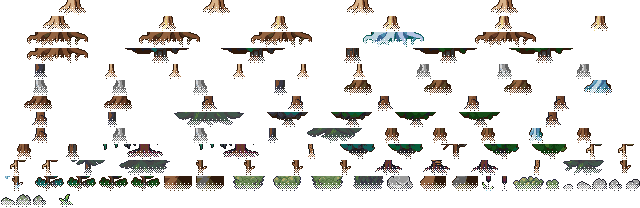
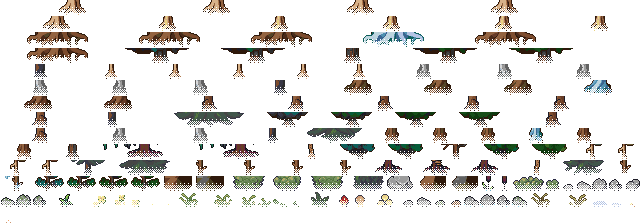
Overworld: ground details (flowers, tufts, pebbles, ice, shells)
- 29 DECAL_* sprites join the prop atlas: LightBorne flowers, tufts,
  forest patches, twigs, fern, mushrooms, pebbles and river stones, plus
  generated dead grass (tufts recoloured to straw), ice patches and shells.
- OverworldRenderer::decalFor picks one per tile from a per-biome pool by
  hash (4-14% of tiles, 1.5% of lake/river cells); drawDecals draws them
  flat after the terrain layers, never under a prop or across a biome edge.
- CLAUDE.md: the overworld notes cover swamps, smooth fields, banks, shade
  overlays, decals, root fade and minimap teleport; palette is 74.

diff --git a/src/render/overworld_renderer.cpp b/src/render/overworld_renderer.cpp
@@ -157,6 +157,61 @@ std::span<const Pick> poolFor(PropType type, Biome b) {
   }
 }
 
+// Ground details: flat, walk-over, picked per tile from a hash like the
+// species, and drawn with the terrain. (chance per tile, pool)
+constexpr Pick kGrassDecals[] = {{DECAL_FLOWERS_A, 2}, {DECAL_FLOWERS_B, 2}, {DECAL_FLOWER, 3},
+                                 {DECAL_STARS_A, 2},   {DECAL_STARS_B, 2},   {DECAL_TUFT_A, 3},
+                                 {DECAL_TUFT_B, 3},    {DECAL_PEBBLE_GREY, 1}};
+constexpr Pick kMeadowDecals[] = {{DECAL_TUFT_A, 3},  {DECAL_TUFT_B, 3},   {DECAL_FLOWER, 2},
+                                  {DECAL_PATCH_A, 2}, {DECAL_PATCH_B, 2}, {DECAL_STARS_A, 1}};
+constexpr Pick kForestDecals[] = {{DECAL_PATCH_A, 3},      {DECAL_PATCH_B, 3},
+                                  {DECAL_PATCH_C, 2},      {DECAL_TWIGS, 3},
+                                  {DECAL_FERN, 3},         {DECAL_MUSHROOM_RED, 1},
+                                  {DECAL_MUSHROOM_BROWN, 2}, {DECAL_MUSHROOMS, 1},
+                                  {DECAL_PEBBLE_MOSS, 1}};
+constexpr Pick kWetlandDecals[] = {{DECAL_PATCH_A, 2}, {DECAL_PATCH_C, 2}, {DECAL_FERN, 2},
+                                   {DECAL_MUSHROOM_BROWN, 1}, {DECAL_PEBBLE_MOSS, 1}};
+constexpr Pick kMountainDecals[] = {{DECAL_PEBBLE_GREY, 3}, {DECAL_PEBBLES_GREY, 3},
+                                    {DECAL_PEBBLE_BROWN, 2}, {DECAL_DEAD_TUFT_B, 1}};
+constexpr Pick kSnowDecals[] = {{DECAL_DEAD_TUFT_A, 3}, {DECAL_DEAD_TUFT_B, 3}, {DECAL_ICE_A, 2},
+                                {DECAL_ICE_B, 2},       {DECAL_PEBBLE_GREY, 1}};
+constexpr Pick kBeachDecals[] = {{DECAL_SHELL, 3}, {DECAL_SHELL_PINK, 2}, {DECAL_PEBBLE_GREY, 1}};
+constexpr Pick kFreshWaterDecals[] = {{DECAL_STONE_WATER_A, 2}, {DECAL_STONE_WATER_B, 2},
+                                      {DECAL_STONE_WATER_C, 2}, {DECAL_STONE_WATER_MOSS, 1}};
+
+struct DecalOdds {
+  float chance;
+  std::span<const Pick> pool;
+};
+
+DecalOdds decalOdds(Biome b, uint8_t shade) {
+  switch (b) {
+  case Biome::GRASSLAND: return shade ? DecalOdds{0.10f, kMeadowDecals} : DecalOdds{0.10f, kGrassDecals};
+  case Biome::FOREST: return {0.14f, kForestDecals};
+  case Biome::WETLAND: return {0.08f, kWetlandDecals};
+  case Biome::MOUNTAIN: return {0.10f, kMountainDecals};
+  case Biome::SNOW: return {0.08f, kSnowDecals};
+  case Biome::BEACH: return {0.04f, kBeachDecals};
+  case Biome::LAKE: case Biome::RIVER: return {0.015f, kFreshWaterDecals};
+  default: return {0.0f, {}};
+  }
+}
+
+owsprite::Id pickFrom(std::span<const Pick> pool, uint32_t r) {
+  int total = 0;
+  for (const Pick &p : pool)
+    total += p.weight;
+  int k = (int)(r % (uint32_t)total);
+  for (const Pick &p : pool) {
+    if (k < p.weight)
+      return p.id;
+    k -= p.weight;
+  }
+  return pool.back().id;
+}
+
+constexpr uint32_t kDecalSalt = 0x68e31da4u;
+
 constexpr float kCoverAlpha = 0.45f;
 
 constexpr int widestFrame() {
@@ -206,18 +261,15 @@ Color OverworldRenderer::biomeColour(Biome b) {
 owsprite::Id OverworldRenderer::spriteFor(PropType type, Biome biome,
                                           uint8_t variant) {
   std::span<const Pick> pool = poolFor(type, biome);
-  if (pool.empty())
+  return pool.empty() ? owsprite::COUNT : pickFrom(pool, variant);
+}
+
+owsprite::Id OverworldRenderer::decalFor(Biome biome, uint8_t shade, uint32_t hash) {
+  DecalOdds odds = decalOdds(biome, shade);
+  // Low 16 bits roll the chance, the rest pick from the pool.
+  if (odds.pool.empty() || (hash & 0xffffu) >= (uint32_t)(odds.chance * 65536.0f))
     return owsprite::COUNT;
-  int total = 0;
-  for (const Pick &p : pool)
-    total += p.weight;
-  int r = variant % total;
-  for (const Pick &p : pool) {
-    if (r < p.weight)
-      return p.id;
-    r -= p.weight;
-  }
-  return pool.back().id;
+  return pickFrom(odds.pool, hash >> 16);
 }
 
 void OverworldRenderer::renderTerrain(const Overworld &world,
@@ -251,6 +303,31 @@ void OverworldRenderer::renderTerrain(const Overworld &world,
   m_world = &world;
   for (int layer = 0; layer < LAYER_COUNT; ++layer)
     drawLayer(layer, x0, y0, w, h, frame);
+  drawDecals(x0, y0, w, h);
+}
+
+// Ground details sit flat on the terrain, so they draw here rather than in
+// the DrawQueue. Only on a tile whose row neighbours share its biome - a tuft
+// two tiles wide would otherwise hang over a shore or a biome edge - and
+// never under a prop.
+void OverworldRenderer::drawDecals(int x0, int y0, int w, int h) const {
+  const uint32_t seed = m_world->island().seed();
+  for (int j = 1; j <= h; ++j) {
+    for (int i = 1; i <= w; ++i) {
+      const Cell &c = m_cells[j * m_cellsW + i];
+      if (m_cells[j * m_cellsW + i - 1].biome != c.biome ||
+          m_cells[j * m_cellsW + i + 1].biome != c.biome)
+        continue;
+      const int x = x0 - 1 + i, y = y0 - 1 + j;
+      owsprite::Id id = decalFor(c.biome, c.shade,
+                                 noise::hash(m_world->wrapX(x), m_world->wrapY(y), seed ^ kDecalSalt));
+      if (id == owsprite::COUNT || m_world->propAt(x, y) != PropType::NONE)
+        continue;
+      const owsprite::Frame &f = owsprite::kFrames[id];
+      Rectangle src = grid::srcTile(f.col, f.row, f.w, f.h);
+      DrawTexturePro(m_props, src, grid::standingOn(src, x, y), {0, 0}, 0.0f, WHITE);
+    }
+  }
 }
 
 void OverworldRenderer::drawLayer(int layer, int x0, int y0, int w, int h,

diff --git a/tools/build_overworld_sheets.py b/tools/build_overworld_sheets.py
@@ -89,6 +89,8 @@ SOURCES = {
     "lb_rock":  (LB + "/Environment/Deco/rocks.png", None),
     "pc_rock":  (PC + "/Props/Static/Rocks.png", (0, 16, 208, 304)),  # drops the "PALETTE:" label
     "reeds":    (SW + "/objects&items/swamp water objects.png", None),
+    "lb_flora": (LB + "/Environment/Vegetation/grass, flowers & mushrooms.png", None),
+    "lb_wet":   (LB + "/Environment/Deco/deco on water.png", None),
 }
 for _m in (1, 2, 3):
     for _s in (2, 3, 4, 5):
@@ -195,8 +197,65 @@ PROPS = (
     + boxes("pc_rock", [("BOULDER_BROWN", (2, 3, 28, 43)), ("BOULDER_BROWN_LOW", (35, 3, 26, 27)),
                         ("BOULDER_GREY", (98, 3, 28, 43)), ("BOULDER_GREY_LOW", (131, 3, 26, 27))])
     + boxes("reeds", [("CATTAIL_TALL", (48, 16, 16, 32)), ("CATTAIL_SHORT", (64, 16, 16, 32)), ("SWAMP_PLANT", (80, 48, 16, 32))])
+    # Ground details (DECAL_*): flat, walk-over, drawn with the terrain.
+    + boxes("lb_flora", [("DECAL_FLOWERS_A", (65, 1, 13, 12)), ("DECAL_FLOWERS_B", (81, 1, 10, 13)),
+                         ("DECAL_FLOWER", (49, 2, 8, 8)), ("DECAL_STARS_A", (68, 17, 15, 14)),
+                         ("DECAL_STARS_B", (96, 17, 16, 14)), ("DECAL_TUFT_A", (14, 64, 20, 15)),
+                         ("DECAL_TUFT_B", (15, 49, 18, 14)), ("DECAL_PATCH_A", (48, 17, 15, 13)),
+                         ("DECAL_PATCH_B", (33, 20, 13, 10)), ("DECAL_PATCH_C", (2, 17, 14, 9)),
+                         ("DECAL_TWIGS", (96, 65, 16, 15)), ("DECAL_FERN", (127, 64, 18, 16)),
+                         ("DECAL_MUSHROOM_RED", (99, 81, 10, 13)), ("DECAL_MUSHROOM_BROWN", (99, 97, 10, 13)),
+                         ("DECAL_MUSHROOMS", (128, 113, 16, 14))])
+    + boxes("lb_rock", [("DECAL_PEBBLE_GREY", (3, 7, 10, 8)), ("DECAL_PEBBLES_GREY", (17, 4, 14, 11)),
+                        ("DECAL_PEBBLE_MOSS", (3, 23, 10, 8)), ("DECAL_PEBBLE_BROWN", (3, 39, 10, 8))])
+    + boxes("lb_wet", [("DECAL_STONE_WATER_A", (1, 35, 15, 12)), ("DECAL_STONE_WATER_B", (17, 49, 15, 14)),
+                       ("DECAL_STONE_WATER_C", (2, 66, 13, 13)), ("DECAL_STONE_WATER_MOSS", (49, 35, 15, 12))])
+    + boxes("gen", [("DECAL_DEAD_TUFT_A", (0, 0, 20, 15)), ("DECAL_DEAD_TUFT_B", (24, 0, 19, 14)),
+                    ("DECAL_ICE_A", (48, 0, 14, 7)), ("DECAL_ICE_B", (64, 0, 10, 5)),
+                    ("DECAL_SHELL", (80, 0, 6, 5)), ("DECAL_SHELL_PINK", (88, 0, 5, 4))])
 )
 ATLAS_TILES = 40  # atlas width in tiles
+
+
+def generated_decals(src):
+    """Decals no pack draws: dead grass poking through snow (LightBorne's
+    tufts, each green moved to the straw tan of the same lightness), ice
+    patches, and two beach shells."""
+    g = np.zeros((16, 96, 4), np.uint8)
+    straw = [hexrgb(h) for h in ("#544527", "#74653c", "#96894e", "#b4ac6a")]
+    straw_L = srgb_to_oklab(np.array(straw, np.uint8))[:, 0]
+    for (x0, y0, w, h), dx in (((14, 64, 20, 15), 0), ((15, 80, 19, 14), 24)):
+        tuft = src["lb_flora"][y0:y0 + h, x0:x0 + w].copy()
+        op = tuft[..., 3] > 0
+        L = srgb_to_oklab(tuft[op][:, :3])[:, 0]
+        # Spread the tuft's lightness over the four straws, darkest to lightest.
+        rank = np.clip(((L - L.min()) / max(1e-6, L.max() - L.min()) * 4).astype(int), 0, 3)
+        tuft[op, :3] = np.array(straw, np.uint8)[rank]
+        g[0:h, dx:dx + w] = tuft
+    ice, rim, glint = hexrgb("#b4c4e4"), hexrgb("#a6b7c6"), hexrgb("#dfe3ed")
+    for x0, w, h in ((48, 14, 7), (64, 10, 5)):
+        yy, xx = np.mgrid[0:h, 0:w]
+        inside = ((xx - (w - 1) / 2) / (w / 2)) ** 2 + ((yy - (h - 1) / 2) / (h / 2)) ** 2 <= 1.0
+        patch = np.zeros((h, w, 4), np.uint8)
+        patch[inside] = (*ice, 255)
+        patch[inside & (yy == h - 1)] = (*rim, 255)
+        patch[1, w // 3:w // 3 + 3] = (*glint, 255)
+        g[0:h, x0:x0 + w] = patch
+    shell, shade, pink = hexrgb("#f6e998"), hexrgb("#cc9770"), hexrgb("#f4a568")
+    sh = np.zeros((5, 6, 4), np.uint8)
+    for y, row in enumerate(("..##..", ".#..#.", "######", "#.##.#", ".####.")):
+        for x, c in enumerate(row):
+            if c == "#":
+                sh[y, x] = (*(shade if y >= 3 and x in (0, 5) else shell), 255)
+    sh[1, 2:4] = (*shade, 255)
+    g[0:5, 80:86] = sh
+    pk = np.zeros((4, 5, 4), np.uint8)
+    for y, row in enumerate((".###.", "#####", "#.#.#", ".###.")):
+        for x, c in enumerate(row):
+            if c == "#":
+                pk[y, x] = (*(pink if y < 2 else shade), 255)
+    g[0:4, 88:93] = pk
+    return g
 
 
 def match(a, rgb):
@@ -574,6 +633,7 @@ def main():
     a = ap.parse_args()
     pal = load_palette(a.palette)
     src = load_sources(a.packs, pal)
+    src["gen"] = generated_decals(src)
     if a.dump:
         os.makedirs(a.dump, exist_ok=True)
         for name, px in src.items():

diff --git a/src/render/overworld_sprites.hpp b/src/render/overworld_sprites.hpp
@@ -131,6 +131,35 @@ enum Id : int {
   CATTAIL_TALL,
   CATTAIL_SHORT,
   SWAMP_PLANT,
+  DECAL_FLOWERS_A,
+  DECAL_FLOWERS_B,
+  DECAL_FLOWER,
+  DECAL_STARS_A,
+  DECAL_STARS_B,
+  DECAL_TUFT_A,
+  DECAL_TUFT_B,
+  DECAL_PATCH_A,
+  DECAL_PATCH_B,
+  DECAL_PATCH_C,
+  DECAL_TWIGS,
+  DECAL_FERN,
+  DECAL_MUSHROOM_RED,
+  DECAL_MUSHROOM_BROWN,
+  DECAL_MUSHROOMS,
+  DECAL_PEBBLE_GREY,
+  DECAL_PEBBLES_GREY,
+  DECAL_PEBBLE_MOSS,
+  DECAL_PEBBLE_BROWN,
+  DECAL_STONE_WATER_A,
+  DECAL_STONE_WATER_B,
+  DECAL_STONE_WATER_C,
+  DECAL_STONE_WATER_MOSS,
+  DECAL_DEAD_TUFT_A,
+  DECAL_DEAD_TUFT_B,
+  DECAL_ICE_A,
+  DECAL_ICE_B,
+  DECAL_SHELL,
+  DECAL_SHELL_PINK,
   COUNT
 };
 
@@ -255,6 +284,35 @@ inline constexpr Frame kFrames[COUNT] = {
     {30, 101, 1, 2, 11}, // CATTAIL_TALL
     {31, 101, 1, 2, 11}, // CATTAIL_SHORT
     {3, 104, 2, 1, 12}, // SWAMP_PLANT
+    {5, 104, 2, 1, 12}, // DECAL_FLOWERS_A
+    {7, 104, 1, 1, 12}, // DECAL_FLOWERS_B
+    {8, 104, 1, 1, 12}, // DECAL_FLOWER
+    {9, 104, 1, 1, 12}, // DECAL_STARS_A
+    {10, 104, 1, 1, 12}, // DECAL_STARS_B
+    {11, 104, 2, 1, 12}, // DECAL_TUFT_A
+    {13, 104, 2, 1, 12}, // DECAL_TUFT_B
+    {15, 104, 1, 1, 12}, // DECAL_PATCH_A
+    {16, 104, 1, 1, 12}, // DECAL_PATCH_B
+    {17, 104, 1, 1, 12}, // DECAL_PATCH_C
+    {18, 104, 1, 1, 12}, // DECAL_TWIGS
+    {19, 104, 2, 1, 12}, // DECAL_FERN
+    {21, 104, 1, 1, 12}, // DECAL_MUSHROOM_RED
+    {22, 104, 1, 1, 12}, // DECAL_MUSHROOM_BROWN
+    {23, 104, 2, 1, 12}, // DECAL_MUSHROOMS
+    {25, 104, 1, 1, 12}, // DECAL_PEBBLE_GREY
+    {26, 104, 1, 1, 12}, // DECAL_PEBBLES_GREY
+    {27, 104, 1, 1, 12}, // DECAL_PEBBLE_MOSS
+    {28, 104, 1, 1, 12}, // DECAL_PEBBLE_BROWN
+    {29, 104, 1, 1, 12}, // DECAL_STONE_WATER_A
+    {30, 104, 1, 1, 12}, // DECAL_STONE_WATER_B
+    {31, 104, 1, 1, 12}, // DECAL_STONE_WATER_C
+    {32, 104, 1, 1, 12}, // DECAL_STONE_WATER_MOSS
+    {33, 104, 2, 1, 12}, // DECAL_DEAD_TUFT_A
+    {35, 104, 2, 1, 12}, // DECAL_DEAD_TUFT_B
+    {37, 104, 1, 1, 12}, // DECAL_ICE_A
+    {38, 104, 1, 1, 12}, // DECAL_ICE_B
+    {39, 104, 1, 1, 12}, // DECAL_SHELL
+    {0, 105, 1, 1, 13}, // DECAL_SHELL_PINK
 };
 
 } // namespace owsprite

diff --git a/src/render/overworld_renderer.hpp b/src/render/overworld_renderer.hpp
@@ -34,6 +34,9 @@
 // corners. Inland layers use generated sets with all 16 (see
 // tools/build_overworld_sheets.py).
 //
+// GROUND DETAILS (flowers, tufts, pebbles, ice) are render-only: a tile's
+// hash picks one from a per-biome pool, drawn flat with the terrain.
+//
 // PROPS: the world says what grows on a tile (TREE, PINE, ...) and a hash
 // byte; this renderer decides which picture. A per-(kind, biome) weighted
 // pool turns the byte into a sprite, so a TREE is a willow in the wetland and
@@ -63,6 +66,9 @@ public:
 
   // The sprite a prop draws as. Pure: same prop, same sprite.
   static owsprite::Id spriteFor(PropType type, Biome biome, uint8_t variant);
+  // The ground detail (a DECAL_* sprite) on a tile with this biome, shade
+  // and hash, or COUNT for none. Pure, like spriteFor.
+  static owsprite::Id decalFor(Biome biome, uint8_t shade, uint32_t hash);
 
   // Props are rooted on their base tile and grow up, so a tall tree rooted
   // below the screen can still reach into view: collect() scans this many
@@ -88,6 +94,7 @@ public:
 
 private:
   void drawLayer(int layer, int x0, int y0, int w, int h, int frame) const;
+  void drawDecals(int x0, int y0, int w, int h) const;
 
   Texture2D m_water{}, m_coast{}, m_terrain{}, m_shades{}, m_props{}, m_propsWet{};
   const Overworld *m_world = nullptr;

diff --git a/tests/test_overworld.cpp b/tests/test_overworld.cpp
@@ -404,6 +404,25 @@ TEST(OverworldRendererTest, FullOrangeAutumnTreesAreHeldBack) {
       }
 }
 
+TEST(OverworldRendererTest, GroundDetailsAreFlatDecalsAtAModestDensity) {
+  for (int b = 0; b < (int)Biome::COUNT; ++b) {
+    for (uint8_t shade = 0; shade < 4; ++shade) {
+      int shown = 0;
+      for (uint32_t h = 0; h < 4000; ++h) {
+        owsprite::Id id = OverworldRenderer::decalFor((Biome)b, shade, noise::hash(h, b, 9));
+        if (id == owsprite::COUNT)
+          continue;
+        ++shown;
+        // Flat: one tile tall, so drawing under the props is never wrong.
+        EXPECT_EQ(owsprite::kFrames[id].h, 1);
+        EXPECT_GE(id, owsprite::DECAL_FLOWERS_A); // decals only, no props
+      }
+      EXPECT_LT(shown, 4000 / 5) << biomeId((Biome)b); // at most ~20% of tiles
+    }
+  }
+  EXPECT_EQ(OverworldRenderer::decalFor(Biome::OCEAN, 0, 0), owsprite::COUNT);
+}
+
 TEST(OverworldRendererTest, SpriteFramesDoNotOverlapInTheAtlas) {
   using owsprite::kFrames;
   for (int i = 0; i < owsprite::COUNT; ++i) {

diff --git a/CLAUDE.md b/CLAUDE.md
@@ -152,7 +152,7 @@ Data and presentation are strictly separated: `MazeRenderer` (terrain), `PlayerR
 
 The workshop furniture sheet is the one asset that was not authored at this density: the pack draws a locker on 2×4 tiles where the game places it on 1×2 cells. `assets/PostApoc_Workshop_16px.png` is the pack sheet halved by `tools/downsample_sheet.py` (box-average, snap to the sheet's own colours, and a three-way alpha vote that keeps the drop shadows partial — flattening them turns table undersides into slabs). Regenerate it from `../Asset packs/PostApoc_Workshop/PostApoc_Workshop_WithShadow.png` rather than editing it by hand; a 32-based pack (`Mobs/`) goes through the same tool before it enters `assets/`. Once halved, that sheet is an 8px atlas, so some of its rectangles are written in art pixels rather than tiles. `PostApoc_Workshop_Icons.png` is already 16px inventory icons and is used as-is.
 
-**Every sheet in `assets/` is quantized to the master palette** (`assets/palette.json`, 72 colours in 7 ramps, one palette for both worlds; reasoning and maintenance rules in `docs/palette.md`). `python tools/quantize.py <src> assets/<name>.png` is how a sheet enters `assets/` (the four overworld sheets `ow_water/coast/terrain/props.png` and the generated `src/render/overworld_sprites.hpp` are built instead by `tools/build_overworld_sheets.py`, which records every crop and edit), and `python tools/quantize.py --check assets/` must report 100 % — a stray colour is a defect. Sources stay outside `assets/` so a palette change re-quantizes from the original. `tools/palette_sample.py` re-derives a proposal from the packs; it proposes, a human approves - and a run without `--render` overwrites `palette.json` with its 56-colour proposal, dropping the hand-added overworld colours. C++ never spells a colour: `src/core/palette.hpp` is the palette as `constexpr Color` ramps, **generated** by `tools/palette_header.py` from the JSON (re-run after any palette edit; `PaletteHeader.MatchesStrip` fails if header and strip drift), and `src/render/theme.hpp` maps hand-chosen roles (`theme::ink`, `theme::bad`, `theme::radiationGlow`…) onto ramp steps. UI and renderers name a role; only `DrawTexture` tints stay `WHITE`.
+**Every sheet in `assets/` is quantized to the master palette** (`assets/palette.json`, 74 colours in 7 ramps, one palette for both worlds; reasoning and maintenance rules in `docs/palette.md`). `python tools/quantize.py <src> assets/<name>.png` is how a sheet enters `assets/` (the overworld sheets `ow_water/coast/terrain/shades/props/props_wet.png` and the generated `src/render/overworld_sprites.hpp` are built instead by `tools/build_overworld_sheets.py`, which records every crop and edit), and `python tools/quantize.py --check assets/` must report 100 % — a stray colour is a defect. Sources stay outside `assets/` so a palette change re-quantizes from the original. `tools/palette_sample.py` re-derives a proposal from the packs; it proposes, a human approves - and a run without `--render` overwrites `palette.json` with its 56-colour proposal, dropping the hand-added overworld colours. C++ never spells a colour: `src/core/palette.hpp` is the palette as `constexpr Color` ramps, **generated** by `tools/palette_header.py` from the JSON (re-run after any palette edit; `PaletteHeader.MatchesStrip` fails if header and strip drift), and `src/render/theme.hpp` maps hand-chosen roles (`theme::ink`, `theme::bad`, `theme::radiationGlow`…) onto ramp steps. UI and renderers name a role; only `DrawTexture` tints stay `WHITE`.
 
 Two more derived assets: `mushrooms_pixel_asset.png` is no longer the pack sheet but a PixelLab img2img pass over a 0.7× shrink of it, forced to the pack's palette and then hand-trimmed to 3 columns (six variants per kind; the renderer's hash is `% 6`), so mushrooms stay small on the 2× grid; `workshop_prop_icons.png` holds the paper and pencil inventory icons cut at native 1:1 from the pack's furniture sheet — UI icons are stretched into a slot in window space, so they sit outside the world-density rule. Two deliberate exceptions to "everything at 2×": those two icons, and the magic book, drawn at 1.5× because at a full cell it swallowed its table.
 
@@ -198,10 +198,10 @@ Cached render textures (`DebugOverlay::m_mapTexture`, `UIManager::m_magicBookMap
 The surface is a 3072×3072-tile world that wraps like the maze, with a ~2k-tile island centred in it and ≥500 tiles of open ocean to the seam, so no generator has to be seamless across the wrap (`IslandTest.TheWrapSeamLiesInOpenOcean` guards this). Three layers:
 
 - **`TerrainField`** (`world/terrain_field.hpp`) — height, temperature and moisture as **pure functions** of (x, y, seed), built on our own noise (`world/noise.hpp`: hash → gradient noise → fBm / ridged / domain warp). Height is the land score: warped-radial falloff + hills + ridged mountains, with a hard cliff past 0.92 radii. Never stored per tile. `IslandConfig` holds the compile-time shape; generation constants are not live settings.
-- **`IslandMap`** (`world/generators/island_generator.*`) — whole-island passes on a coarse grid (1 cell = 8×8 tiles): ocean flood, priority-flood depression filling, lakes, D8 drainage, flow accumulation, rivers (cells with enough upstream area, so every river ends in a lake or the ocean by construction), Euclidean distance to water. `Island` (`world/island.*`) combines both: `sample(x, y)` classifies any tile in O(1) (ocean → lake → marsh → river → `biome::classifyLand`, a Whittaker lookup in `world/biome.hpp`) and picks the spawn.
+- **`IslandMap`** (`world/generators/island_generator.*`) — whole-island passes on a coarse grid (1 cell = 8×8 tiles): ocean flood, priority-flood depression filling, lakes, D8 drainage, flow accumulation, rivers (cells with enough upstream area, so every river ends in a lake or the ocean by construction), swamps (~1 in 3 warm lakes plus the river cells near them along the flow), and Euclidean distance fields to water, ocean and swamp water. `Island` (`world/island.*`) combines both: `sample(x, y)` classifies any tile in O(1) (ocean → lake/swamp → marsh → river/swamp → `biome::classifyLand`, a Whittaker lookup in `world/biome.hpp`) and picks the spawn. Coarse data reaches tiles only through smooth fields - bilinear distances, never a yes/no per coarse cell, which cuts land into 8-tile squares (the beach once did). It also gives each tile a `shade` step (grassland open/meadow edge, forest edge/deep, snow plain/drift) that the renderer fades by and prop density follows.
 - **`Overworld`** (`world/overworld.*`) — the `World` implementation. Tiles live in 32×32 **chunks** generated on demand and dropped by `retainAround` (memory scales with the view, not the world). Props come from per-chunk Bridson Poisson-disc points (`world/generators/poisson.*`), thinned by a biome density roll; a chunk yields any point within `kPropSpacing` of a higher-priority (lower-index) neighbour's point, so spacing holds across borders whatever the build order. Player changes (a removed prop) live in a sparse **change record** outside the chunks and are re-applied on every rebuild. Water is walkable for now (no swimming/boat until Phase 9).
 
-`OverworldRenderer` draws the ground as stacked layers (water, sand, grass, then one overlay per biome) autotiled on a **dual grid**: each tile sits on a cell corner and picks one of 16 shapes from the 4 cells meeting there (`cornerMask`, TL=8 TR=4 BL=2 BR=1). The coast is High Tides' hand-drawn set (foam animated off `m_totalTime`); inland edges are generated by the build script from LightBorne's corner masks. A layer must also cover the cells of any layer that sits on it (gravel runs under snow), or a rim of the layer below shows. Props go through the shared `DrawQueue`; the world only says TREE/PINE/BUSH/ROCK/REEDS plus a hash byte, and `OverworldRenderer::spriteFor` picks the species from a per-(kind, biome) weighted pool — species becomes world data when gameplay needs it. Sprites are up to 16 tiles tall, so `collect` scans `kReachBelowTiles` rows below the screen and the queue's range is widened to match; a prop covering the player draws faded (`setFocus`). `theme::ocean`…`theme::snow` now only paint the debug island map. The debug panel's overworld view (`DebugOverlay::render(Player&, Overworld&, …)`) shows island stats, a biome/height map, and raises `triggerNewIsland` / `triggerRemoveProp`, which `OverworldState` drains.
+`OverworldRenderer` draws the ground as stacked layers (open water, swamp water, ground, grass, shade overlays, then one overlay per biome) autotiled on a **dual grid**: each tile sits on a cell corner and picks one of 16 shapes from the 4 cells meeting there (`cornerMask`, TL=8 TR=4 BL=2 BR=1). The ground layer's edge is chosen per corner: High Tides' sand-and-foam coast (animated off `m_totalTime`) where ocean or beach meets it, else a generated mud bank (LightBorne's shapes grown 4 px into lakes and rivers). Inland edges are generated by the build script from LightBorne's corner masks. A layer must also cover the cells of any layer that sits on it (gravel runs under snow), or a rim of the layer below shows. **Shade overlays** (`ow_shades.png`: grass → meadow → forest → deep forest, snow drifts) are recoloured copies of their base that dither out along LightBorne's wobble; their corners have three states (off base / base / shaded, 81 tiles per overlay) so they fade into their base but cut cleanly against water. Ground details (`decalFor`: flowers, tufts, mushrooms, pebbles, ice, shells, river stones) are render-only, picked per tile by hash and drawn flat after the layers. Where a tree's root row spills onto water, that slice draws from `ow_props_wet.png`, the bottom row with its lower pixels dithered away. Props go through the shared `DrawQueue`; the world only says TREE/PINE/BUSH/ROCK/REEDS plus a hash byte, and `OverworldRenderer::spriteFor` picks the species from a per-(kind, biome) weighted pool — species becomes world data when gameplay needs it. Sprites are up to 16 tiles tall, so `collect` scans `kReachBelowTiles` rows below the screen and the queue's range is widened to match; a prop covering the player draws faded (`setFocus`). `theme::ocean`…`theme::snow` now only paint the debug island map. The debug panel's overworld view (`DebugOverlay::render(Player&, Overworld&, …)`) shows island stats, a biome/height map, and raises `triggerNewIsland` / `triggerRemoveProp`, which `OverworldState` drains. In both worlds a click on the debug map raises `triggerTeleport`; the state moves the player there, snapped to the nearest open tile (`World::nearestOpenCell`).
 
 ### Input
 
